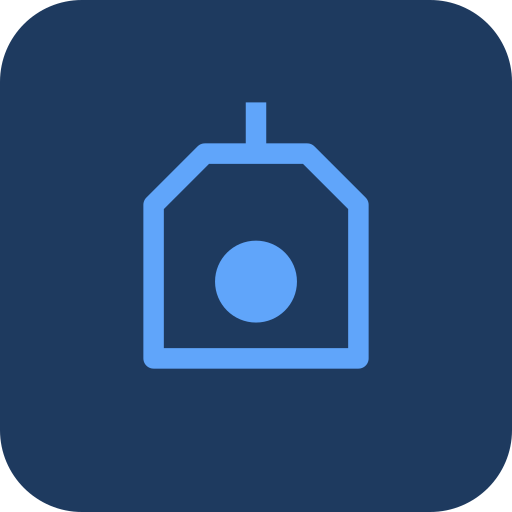
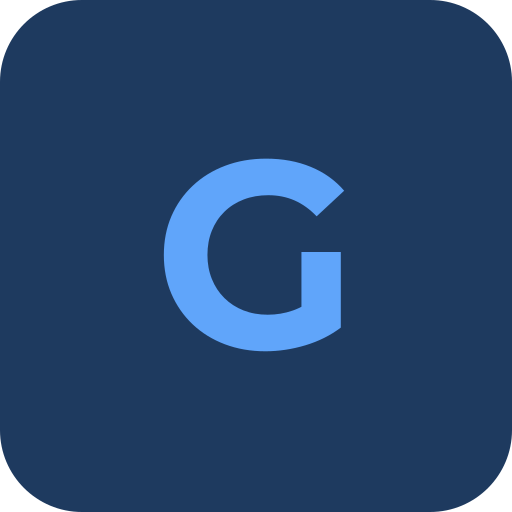
Rebrand app to GestãoPro with separated company branding.
Rename the product across UI, PWA manifest, PDFs, and backups while keeping Pichelaria as an industry profile option.

Changed region(s): [[0.2812, 0.1875, 0.7188, 0.7188]]

diff --git a/src/hooks/useIndustry.js b/src/hooks/useIndustry.js
@@ -1,19 +1,24 @@
 import { useMemo } from 'react'
 import { useApp } from '../context/AppContext.jsx'
 import { getIndustryProfile } from '../config/industryProfiles.js'
+import { APP_NAME } from '../config/appConfig.js'
+
+export { APP_NAME } from '../config/appConfig.js'
 
 export function useIndustry() {
   const { settings } = useApp()
 
   return useMemo(() => {
     const profile = getIndustryProfile(settings.areaTrabalho)
-    const appName = settings.empresaNome?.trim() || profile.name
+    const companyName = settings.empresaNome?.trim() || ''
     return {
       profile,
       labels: profile.labels,
       prefix: profile.prefix,
-      appName,
-      fullName: `${appName} ERP`,
+      appName: APP_NAME,
+      companyName,
+      fullName: APP_NAME,
+      sidebarSubtitle: companyName || profile.tagline,
     }
   }, [settings.areaTrabalho, settings.empresaNome])
 }

diff --git a/src/components/Sidebar/Sidebar.jsx b/src/components/Sidebar/Sidebar.jsx
@@ -2,12 +2,13 @@ import { NavLink, useLocation } from 'react-router-dom'
 import {
   LayoutDashboard, FilePlus, ClipboardList, Users, BarChart3, Settings, X
 } from 'lucide-react'
+import { APP_VERSION } from '../../config/appConfig.js'
 import { useIndustry } from '../../hooks/useIndustry.js'
 import { useApp } from '../../context/AppContext.jsx'
 
 export default function Sidebar({ isOpen, onClose, isMobile }) {
   const location = useLocation()
-  const { appName, labels, profile } = useIndustry()
+  const { appName, labels, profile, sidebarSubtitle } = useIndustry()
   const { settings } = useApp()
 
   const menuItems = [
@@ -26,7 +27,7 @@ export default function Sidebar({ isOpen, onClose, isMobile }) {
     ${isOpen || !isMobile ? 'translate-x-0' : '-translate-x-full'}
   `
 
-  const logoLetter = appName.charAt(0).toUpperCase()
+  const logoLetter = 'G'
 
   return (
     <aside className={sidebarClasses} aria-label="Menu lateral">
@@ -41,7 +42,7 @@ export default function Sidebar({ isOpen, onClose, isMobile }) {
           )}
           <div className="min-w-0">
             <span className="font-semibold text-base tracking-tight block truncate">{appName}</span>
-            <span className="text-[10px] text-slate-400 block truncate">{profile.tagline}</span>
+            <span className="text-[10px] text-slate-400 block truncate">{sidebarSubtitle}</span>
           </div>
         </div>
         {isMobile && (
@@ -80,7 +81,7 @@ export default function Sidebar({ isOpen, onClose, isMobile }) {
       </nav>
 
       <div className="px-5 py-4 border-t border-white/10 shrink-0 safe-bottom">
-        <p className="text-xs text-slate-400">v2.0.0 — Multi-Área</p>
+        <p className="text-xs text-slate-400">v{APP_VERSION}</p>
         <p className="text-xs text-slate-500 mt-0.5">Dados locais · Offline</p>
       </div>
     </aside>

diff --git a/src/utils/settingsUtils.js b/src/utils/settingsUtils.js
@@ -1,9 +1,9 @@
 export const defaultSettings = {
   // Industry
-  areaTrabalho: 'pichelaria',
+  areaTrabalho: 'geral',
 
   // Company
-  empresaNome: 'Pichelaria',
+  empresaNome: '',
   empresaLogo: '',
   empresaTelefone: '',
   empresaTelemovel: '',
@@ -72,13 +72,16 @@ export function resetSettings() {
   return { ...defaultSettings }
 }
 
+import { APP_NAME } from '../config/appConfig.js'
+
 export function applyThemeSettings(settings) {
   const root = document.documentElement
   root.classList.toggle('dark', !!settings.temaEscuro)
   root.style.setProperty('--color-primary', settings.corPrincipal || defaultSettings.corPrincipal)
   root.style.setProperty('--color-accent', settings.corSecundaria || defaultSettings.corSecundaria)
   root.style.setProperty('--color-primary-dark', adjustColor(settings.corPrincipal || defaultSettings.corPrincipal, -20))
-  document.title = `${settings.empresaNome?.trim() || 'ERP'} — Gestão Profissional`
+  const company = settings.empresaNome?.trim()
+  document.title = company ? `${company} — ${APP_NAME}` : APP_NAME
 }
 
 function adjustColor(hex, amount) {

diff --git a/index.html b/index.html
@@ -4,15 +4,15 @@
     <meta charset="UTF-8" />
     <meta name="viewport" content="width=device-width, initial-scale=1.0, maximum-scale=5.0, viewport-fit=cover" />
     <meta name="theme-color" content="#1e3a5f" />
-    <meta name="description" content="ERP profissional multi-área para gestão de serviços." />
+    <meta name="description" content="GestãoPro — ERP multi-área para gestão de serviços e clientes." />
     <meta name="apple-mobile-web-app-capable" content="yes" />
     <meta name="apple-mobile-web-app-status-bar-style" content="black-translucent" />
-    <meta name="apple-mobile-web-app-title" content="ERP Pro" />
+    <meta name="apple-mobile-web-app-title" content="GestãoPro" />
     <meta name="mobile-web-app-capable" content="yes" />
     <link rel="icon" type="image/svg+xml" href="/favicon.svg" />
     <link rel="manifest" href="/manifest.json" />
     <link rel="apple-touch-icon" href="/icon-192.png" />
-    <title>ERP Pro — Gestão Profissional</title>
+    <title>GestãoPro</title>
   </head>
   <body>
     <div id="root"></div>

diff --git a/src/components/Header/Header.jsx b/src/components/Header/Header.jsx
@@ -3,9 +3,9 @@ import { useIndustry } from '../../hooks/useIndustry.js'
 import { useApp } from '../../context/AppContext.jsx'
 
 export default function Header({ onMenuToggle }) {
-  const { fullName, appName } = useIndustry()
+  const { fullName } = useIndustry()
   const { settings } = useApp()
-  const logoLetter = appName.charAt(0).toUpperCase()
+  const logoLetter = settings.empresaLogo ? null : 'G'
 
   return (
     <header className="h-14 lg:h-16 bg-surface border-b border-border flex items-center justify-between px-4 lg:px-6 shrink-0 safe-top">

diff --git a/src/components/Footer/Footer.jsx b/src/components/Footer/Footer.jsx
@@ -1,4 +1,5 @@
 import { useIndustry } from '../../hooks/useIndustry.js'
+import { APP_VERSION } from '../../config/appConfig.js'
 
 export default function Footer() {
   const { fullName } = useIndustry()
@@ -6,7 +7,7 @@ export default function Footer() {
   return (
     <footer className="h-10 bg-surface border-t border-border flex items-center justify-center px-4 shrink-0 no-print">
       <p className="text-xs text-text-muted" aria-label="Versão da aplicação">
-        {fullName} — v2.0.0 Multi-Área
+        {fullName} — v{APP_VERSION}
       </p>
     </footer>
   )

diff --git a/src/config/appConfig.js b/src/config/appConfig.js
@@ -1,0 +1,3 @@
+export const APP_NAME = 'GestãoPro'
+export const APP_TAGLINE = 'Gestão de serviços e clientes'
+export const APP_VERSION = '2.0.0'

diff --git a/public/sw.js b/public/sw.js
@@ -1,4 +1,4 @@
-const CACHE_NAME = 'erp-pro-v2'
+const CACHE_NAME = 'gestaopro-v2'
 const STATIC_ASSETS = [
   '/',
   '/index.html',

diff --git a/src/config/industryProfiles.js b/src/config/industryProfiles.js
@@ -116,7 +116,7 @@ export const industryProfiles = {
   geral: {
     id: 'geral',
     name: 'Serviços Gerais',
-    tagline: 'Gestão adaptável a qualquer área',
+    tagline: 'Gestão de serviços e clientes',
     icon: '📋',
     prefix: 'S',
     labels: {

diff --git a/src/services/pdf/pdfHeader.js b/src/services/pdf/pdfHeader.js
@@ -7,7 +7,7 @@ export function addHeader(doc, config) {
 
   setTextColor(doc, 'headerText')
   setFont(doc, 'bold', 18)
-  doc.text(config.empresaNome || 'Pichelaria', 15, 18)
+  doc.text(config.empresaNome || 'GestãoPro', 15, 18)
 
   setFont(doc, 'normal', 9)
   const info = []

diff --git a/src/utils/backupUtils.js b/src/utils/backupUtils.js
@@ -15,7 +15,7 @@ export function downloadBackup(clientes, servicos, settings) {
   const url = URL.createObjectURL(blob)
   const a = document.createElement('a')
   a.href = url
-  a.download = `pichelaria_backup_${new Date().toISOString().split('T')[0]}.json`
+  a.download = `gestaopro_backup_${new Date().toISOString().split('T')[0]}.json`
   a.click()
   URL.revokeObjectURL(url)
 }

diff --git a/README.md b/README.md
@@ -1,6 +1,6 @@
-# ERP Pro — Gestão Multi-Área
+# GestãoPro
 
-Sistema ERP profissional adaptável a várias áreas de trabalho: pichelaria, serralharia, eletricista, canalizador, mecânica auto, informática e serviços gerais.
+ERP multi-área para gestão de serviços, clientes e relatórios. Adaptável a pichelaria, serralharia, eletricista, canalizador, mecânica auto, informática e serviços gerais.
 
 ## Funcionalidades
 
@@ -9,7 +9,7 @@ Sistema ERP profissional adaptável a várias áreas de trabalho: pichelaria, se
 - **Clientes** — CRM com histórico e estatísticas
 - **Relatórios** — Gráficos, filtros e exportações (PDF, CSV, Excel)
 - **Definições** — Empresa, área de trabalho, tema, backup/restauro
-- **Multi-plataforma** — Desktop, tablet e smartphone com navegação inferior
+- **Multi-plataforma** — Desktop, tablet e smartphone
 - **PWA** — Instalável offline (Android, iOS, Windows)
 - **Tema escuro** — Modo claro/escuro funcional
 
@@ -19,25 +19,17 @@ Sistema ERP profissional adaptável a várias áreas de trabalho: pichelaria, se
 |------|---------|--------------|
 | Pichelaria | S- | Peças, Serviços |
 | Serralharia | S- | Materiais |
-| Eletricista | E- | Intervenções, Materiais |
+| Eletricista | E- | Intervenções |
 | Canalizador | C- | Materiais |
 | Mecânica Auto | M- | Ordens de Serviço |
-| Informática | I- | Atendimentos, Componentes |
+| Informática | I- | Atendimentos |
 | Serviços Gerais | S- | Itens genéricos |
 
 Configure em **Definições → Área de Trabalho**.
 
-## Tecnologias
-
-- React 19 + Vite 6
-- Tailwind CSS 4
-- Recharts · jsPDF · PapaParse
-- Context API + LocalStorage
-
 ## Instalação
 
 ```bash
-cd pichelaria-erp
 npm install
 npm run dev
 ```
@@ -46,7 +38,7 @@ npm run dev
 
 ```bash
 npm run dev      # Servidor de desenvolvimento
-npm run build    # Build de produção (gera ícones PWA)
+npm run build    # Build de produção
 npm run preview  # Preview da build
 npm run icons    # Regenerar ícones PWA
 ```
@@ -56,20 +48,6 @@ npm run icons    # Regenerar ícones PWA
 1. Push para GitHub
 2. Build: `npm run build`
 3. Publish: `dist`
-
-## Estrutura
-
-```
-src/
-  config/        # Perfis de área de trabalho
-  components/    # UI reutilizável + BottomNav mobile
-  context/       # Estado global unificado
-  hooks/         # useIndustry, useMobile, etc.
-  pages/         # Páginas principais
-  services/pdf/  # Geração de PDF
-  utils/         # Utilitários
-public/          # PWA, service worker, ícones
-```
 
 ## Licença
 